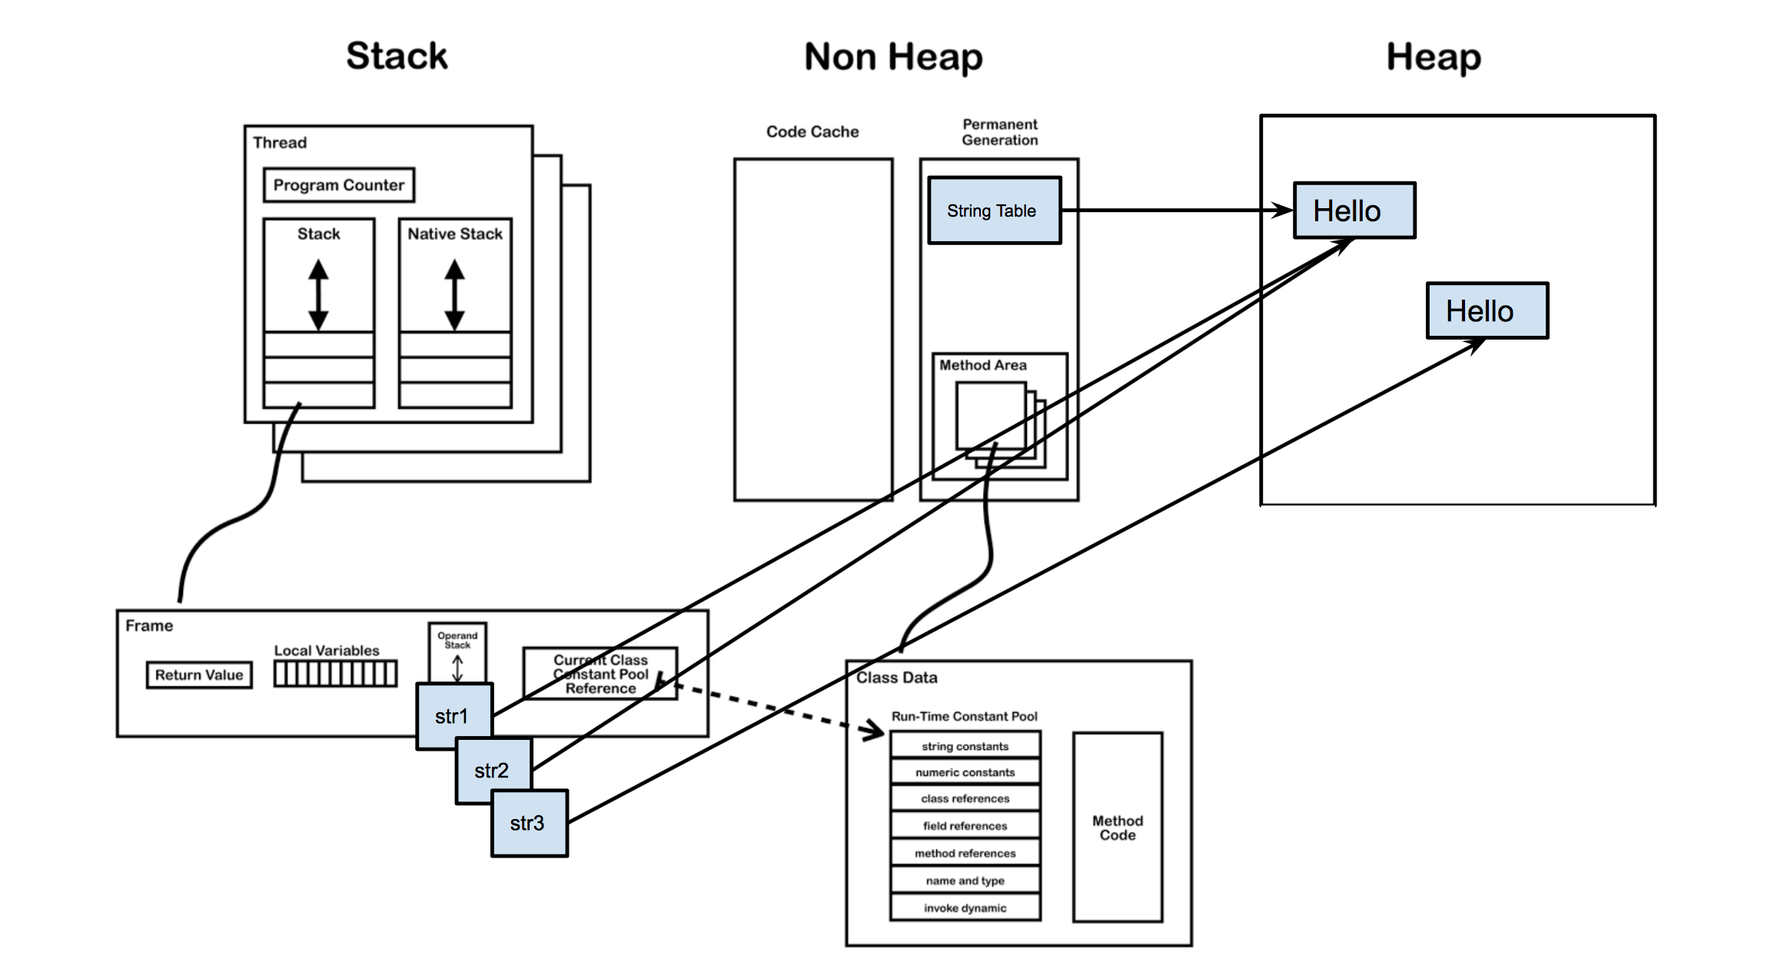
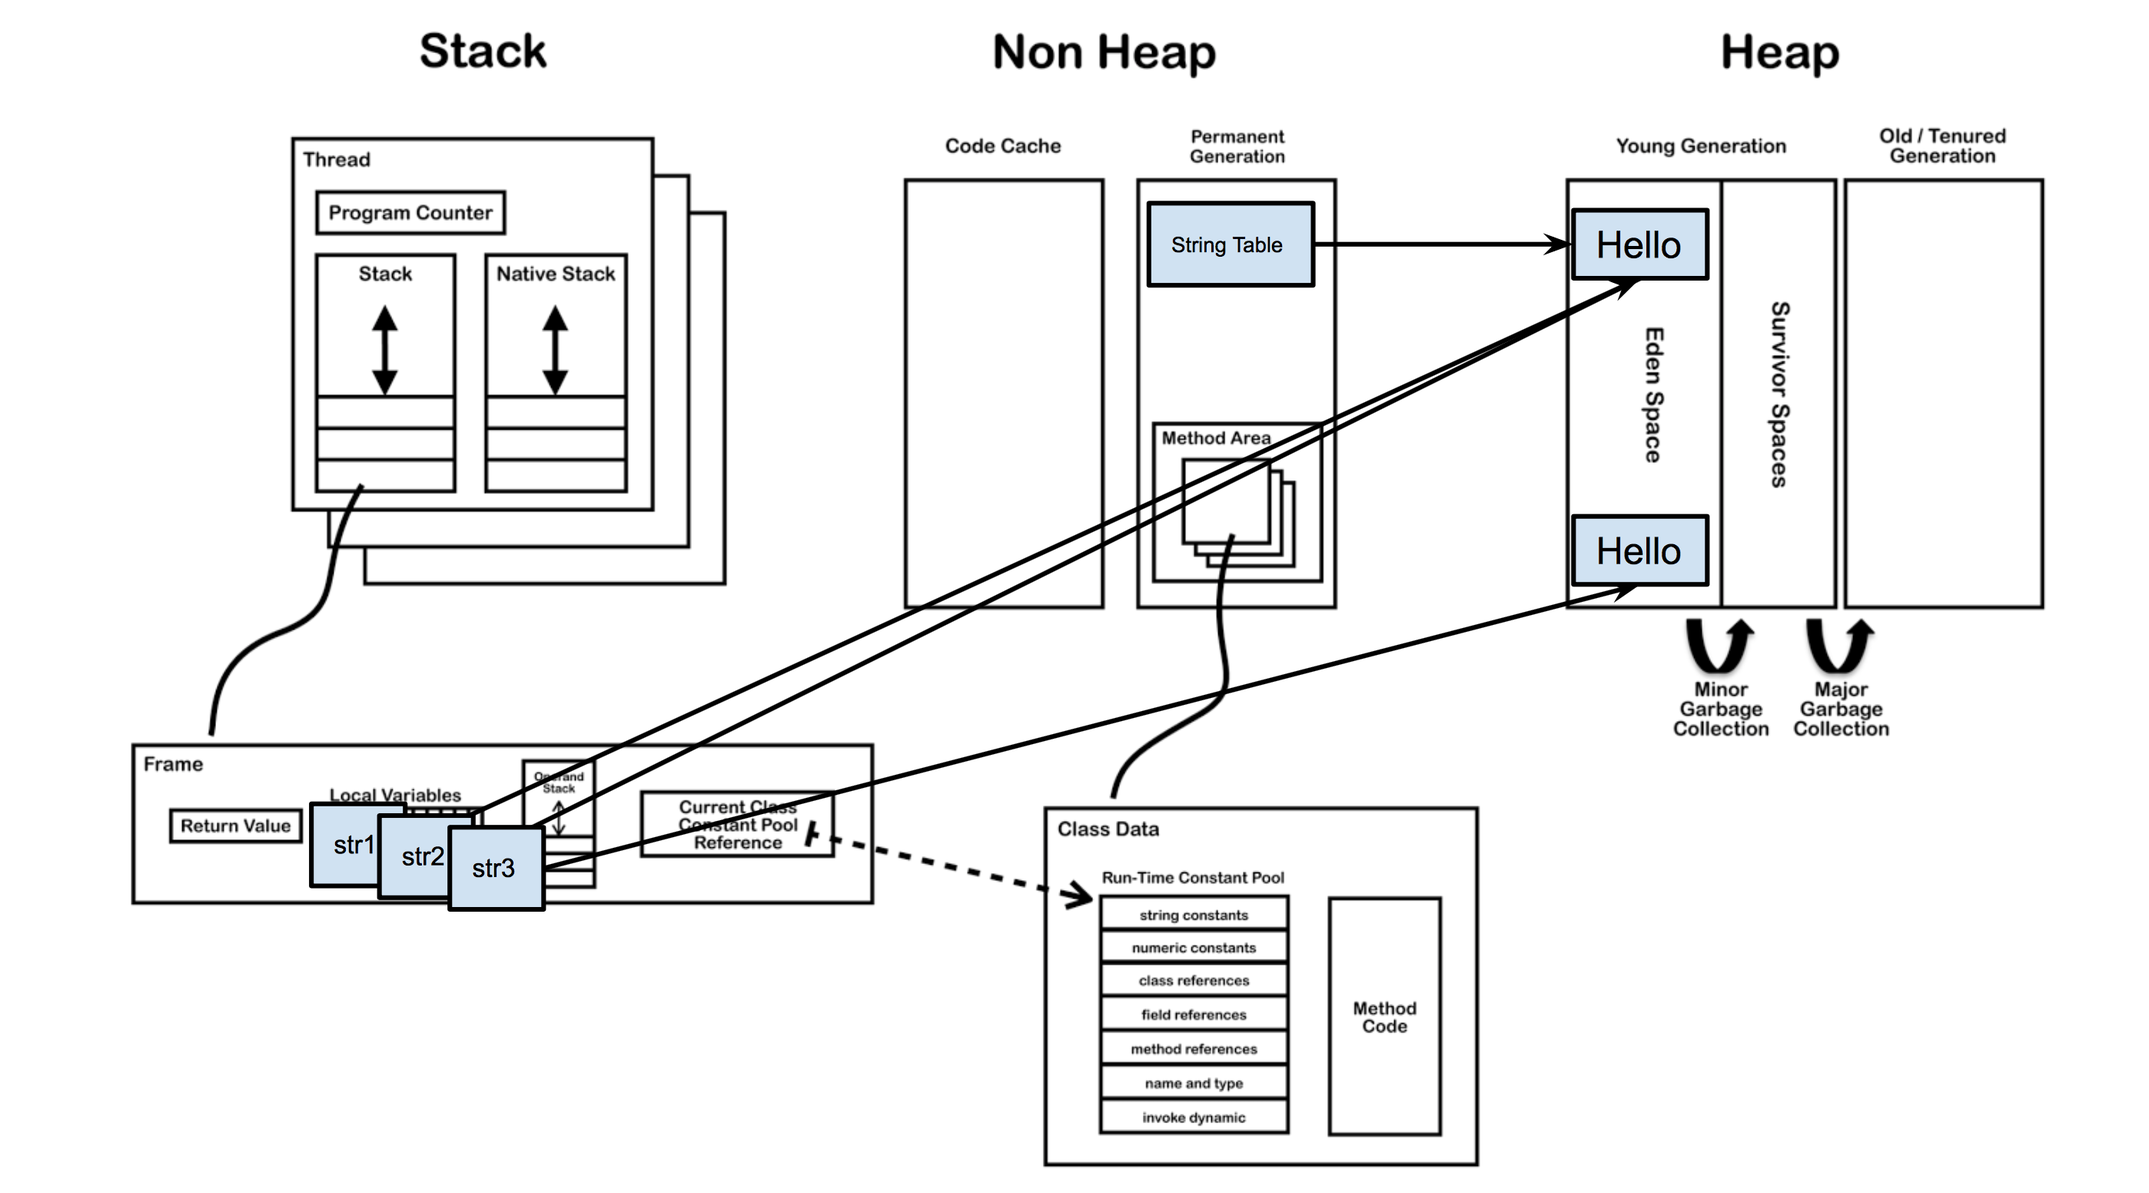
Hexo update!

Changed region(s): [[0.0624, 0.0311, 0.9671, 0.9936]]

diff --git a/2016/07/29/string/index.html b/2016/07/29/string/index.html
@@ -77,7 +77,8 @@
 <meta property="og:image" content="www.ciaoshen.com/uploads/tij4-13/memory3.png">
 <meta property="og:image" content="www.ciaoshen.com/uploads/tij4-13/memory4.png">
 <meta property="og:image" content="www.ciaoshen.com/uploads/tij4-13/memory5.png">
-<meta property="og:updated_time" content="2016-07-29T06:40:16.000Z">
+<meta property="og:image" content="www.ciaoshen.com/uploads/tij4-13/memory6.png">
+<meta property="og:updated_time" content="2016-07-30T04:15:32.000Z">
 <meta name="twitter:card" content="summary">
 <meta name="twitter:title" content="String str=new String("Hello")到底创建了几个对象？">
 <meta name="twitter:description" content="按世界在String上起舞，我们却不知道String到底在哪里。
@@ -362,15 +363,28 @@
 <p>上图中，首先Heap堆分成“新生代”，“老年代”，先不用管它，这是GC垃圾回收时候的事。重要的是Stack栈区里的“局部变量表（Local Variables）”和“操作数栈（Operand Stack）”。因为栈是线程私有的，每个方法被执行的时候都会创建一个“栈帧（Stack Frame）”。而每个栈帧里对应的都维护着一个局部变量表和操作数栈。我们老说基本型和对象引用存在栈里，其实就是存在局部变量表里。而操作数栈是线程实际的操作台。看下面这张图，做个加法100+98，局部变量表就是存数据的地方，一直不变，到加法做完再把和加进去。操作数栈就很忙了，先把两个数字压进去，再求和，算出来以后再弹出去。<br><img src="/uploads/tij4-13/localOperand.png" alt="localOperand"></p>
 <p>中间这个非堆（Non-Heap）可以粗略地理解为非堆里包含了永生代，而永生代里又包括了方法区。上面说了，每个类加载完之后，类的信息都存在方法区里。和String最相关的是里面的“运行时常量池（Run-time Constant Pool）”。它是每个类私有的。后面会说到，每个class文件里的“常量池”在类被加载器加载之后，就映射存放在这个地方。另外一个是“字符串常量池（String Pool）”。和运行时常量池不是一个概念。字符串常量池是全局共享的。位置就在第二张图里Interned String的位置，可以理解为在永生代里，方法区外面。后面会讲到，String.intern()方法，字符串驻留之后，引用就放在这个String Pool。</p>
 <h3 id="String-str-“Hello”"><a href="#String-str-“Hello”" class="headerlink" title="String str = “Hello”;"></a>String str = “Hello”;</h3><p>心里有个内存的印象之后就可以开始说String了。</p>
-<p>声明String肯定都是在一个类文件里。比如下面这个Test.java文件<br><figure class="highlight java"><table><tr><td class="gutter"><pre><span class="line">1</span><br><span class="line">2</span><br><span class="line">3</span><br><span class="line">4</span><br><span class="line">5</span><br><span class="line">6</span><br><span class="line">7</span><br></pre></td><td class="code"><pre><span class="line"><span class="keyword">package</span> com.ciao.shen.java.string;</span><br><span class="line"></span><br><span class="line"><span class="class"><span class="keyword">class</span> <span class="title">Test</span></span>&#123;</span><br><span class="line">    <span class="function"><span class="keyword">public</span> <span class="keyword">void</span> <span class="title">sayHello</span><span class="params">()</span></span>&#123;</span><br><span class="line">        String str = <span class="string">"Hello"</span>;</span><br><span class="line">    &#125;</span><br><span class="line">&#125;</span><br></pre></td></tr></table></figure></p>
+<p>比如下面这个Test.java文件。在主线程方法main里声明了一个字面量是”Hello”的字符串str。<br><figure class="highlight java"><table><tr><td class="gutter"><pre><span class="line">1</span><br><span class="line">2</span><br><span class="line">3</span><br><span class="line">4</span><br><span class="line">5</span><br><span class="line">6</span><br><span class="line">7</span><br><span class="line">8</span><br><span class="line">9</span><br><span class="line">10</span><br></pre></td><td class="code"><pre><span class="line"><span class="keyword">package</span> com.ciao.shen.java.string;</span><br><span class="line"></span><br><span class="line"><span class="class"><span class="keyword">class</span> <span class="title">Test</span></span>&#123;</span><br><span class="line">    <span class="function"><span class="keyword">public</span> <span class="keyword">void</span> <span class="title">f</span><span class="params">(String s)</span></span>&#123;...&#125;;</span><br><span class="line"></span><br><span class="line">    <span class="function"><span class="keyword">public</span> <span class="keyword">static</span> <span class="keyword">void</span> <span class="title">main</span><span class="params">(String[] args)</span></span>&#123;</span><br><span class="line">        String str = <span class="string">"Hello"</span>;</span><br><span class="line">        ...</span><br><span class="line">    &#125;</span><br><span class="line">&#125;</span><br></pre></td></tr></table></figure></p>
 <p>编译成Test.class文件之后，如下图，除了版本、字段、方法、接口等描述信息外，还有一个也叫“常量池（Constant Pool Table）”的东西（淡绿色区块）。但这个常量池和内存里的常量池不是一个东西。class文件里的常量池主要存两个东西：“字面量（Literal）”和“符号引用量(Symbolic References)”。其中字面量就包括类中定义的一些常量，因为String是不可变的，由final关键字修饰过了，所以代码里的“Hello”字符串，就是作为字面量（常量）写在class的常量池里。<br><img src="/uploads/tij4-13/memory2.png" alt="memory2"></p>
-<p>运行程序用到Test类的时候，Test.class文件的信息就会被解析到内存的方法区里。class文件里常量池里大部分数据会被加载到“运行时常量池”。但String不是。例子中的”Hello”的引用会被存到同样在Non Heap区的字符串常量池（String Pool）里。而“Hello”本体还是和所有对象一样，创建在Heap堆区。如下图所示，<br><img src="/uploads/tij4-13/memory3.png" alt="memory3"><br>注意这只是在Test类被类加载器加载时候的情形。主线程还并没有执行sayHello( )方法。Hello的实例已经被创建了。</p>
-<p>等到运行sayHello( )方法的时候，虚拟机就会到String Table里找，有没有能equals(“Hello”)的String。找到之后，就把这个引用压到操作数栈上去。</p>
-<p>如果我们当时定义了很多个值为”Hello”的String，也不会在堆上增加String实例。<br><figure class="highlight java"><table><tr><td class="gutter"><pre><span class="line">1</span><br><span class="line">2</span><br><span class="line">3</span><br></pre></td><td class="code"><pre><span class="line">String str1 = <span class="string">"Hello"</span>;</span><br><span class="line">String str2 = <span class="string">"Hello"</span>;</span><br><span class="line">String str3 = <span class="string">"Hello"</span>;</span><br></pre></td></tr></table></figure></p>
-<p>所以上面三个变量str1,str2,str3指向完全相同的一个heap地址。他们之间可以用==来连接。<br><img src="/uploads/tij4-13/memory4.png" alt="memory4"></p>
-<h3 id="String-str-new-String-“Hello”"><a href="#String-str-new-String-“Hello”" class="headerlink" title="String str = new String(“Hello”);"></a>String str = new String(“Hello”);</h3><p>但如果是用new关键字来创建字符串，情况就不一样了，<br><figure class="highlight java"><table><tr><td class="gutter"><pre><span class="line">1</span><br><span class="line">2</span><br><span class="line">3</span><br></pre></td><td class="code"><pre><span class="line">String str1 = <span class="string">"Hello"</span>;</span><br><span class="line">String str2 = <span class="string">"Hello"</span>;</span><br><span class="line">String str3 = <span class="keyword">new</span> String(<span class="string">"Hello"</span>);</span><br></pre></td></tr></table></figure></p>
-<p>这时候，new关键字会在Heap堆申请一块全新的内存，来创建新对象。虽然字面还是”Hello”，但是完全不同的对象，有不同的内存地址。<br><img src="/uploads/tij4-13/memory5.png" alt="memory5"></p>
-<h3 id="参考文献"><a href="#参考文献" class="headerlink" title="参考文献"></a>参考文献</h3><p>以下三篇，本人均亲自试吃，可放心食用。<br><a href="http://rednaxelafx.iteye.com/blog/774673#comments" target="_blank" rel="external">《请别再拿“String s = new String(“xyz”);创建了多少个String实例”来面试了吧 - By R神-@RednaxelaFX》</a><br><a href="http://blog.jamesdbloom.com/JVMInternals.html#constant_pool" target="_blank" rel="external">《JVM Internals - By James D Bloom》</a><br><a href="http://www.javaranch.com/journal/200409/ScjpTipLine-StringsLiterally.html" target="_blank" rel="external">《The SCJP Tip Line - By Corey McGlone》</a></p>
+<p>运行程序用到Test类的时候，Test.class文件的信息就会被解析到内存的方法区里。class文件里常量池里大部分数据会被加载到“运行时常量池”。但String不是。例子中的”Hello”的一个引用会被存到同样在Non Heap区的字符串常量池（String Pool）里。而“Hello”本体还是和所有对象一样，创建在Heap堆区。R大的文章里，测试的结果是在新生代的Eden区。但因为一直有一个引用驻留在字符串常量池，所以不会被GC清理掉。这个Hello对象会生存到整个线程结束。如下图所示，字符串常量池的具体位置是在过去说的永生代里，方法区的外面。<br><img src="/uploads/tij4-13/memory3.png" alt="memory3"></p>
+<blockquote>
+<p><strong>！注意</strong>：这只是在Test类被类加载器加载时候的情形。主线程中的str变量这时候都还没有被创建，但Hello的实例已经在Heap里了，对它的引用也已经在字符串常量池里了。</p>
+</blockquote>
+<p>等主线程开始创建str变量的时候，虚拟机就会到字符串常量池里找，看有没有能equals(“Hello”)的String。如果找到了，就在栈区当前栈帧的局部变量表里创建str变量，然后把字符串常量池里对Hello对象的引用复制给str变量。找不到的话，才会在heap堆重新创建一个对象，然后把引用驻留到字符串常量区。然后再把引用复制栈帧的局部变量表。<br><img src="/uploads/tij4-13/memory4.png" alt="memory4"></p>
+<h3 id="String-str-new-String-“Hello”"><a href="#String-str-new-String-“Hello”" class="headerlink" title="String str = new String(“Hello”)"></a>String str = new String(“Hello”)</h3><p>如果我们当时定义了很多个值为”Hello”的String，比如像下面代码，有三个变量str1,str2,str3，也不会在堆上增加String实例。局部变量表里三个变量统一指向同一个堆内存地址。<br><figure class="highlight java"><table><tr><td class="gutter"><pre><span class="line">1</span><br><span class="line">2</span><br><span class="line">3</span><br><span class="line">4</span><br><span class="line">5</span><br><span class="line">6</span><br><span class="line">7</span><br><span class="line">8</span><br><span class="line">9</span><br><span class="line">10</span><br><span class="line">11</span><br><span class="line">12</span><br></pre></td><td class="code"><pre><span class="line"><span class="keyword">package</span> com.ciao.shen.java.string;</span><br><span class="line"></span><br><span class="line"><span class="class"><span class="keyword">class</span> <span class="title">Test</span></span>&#123;</span><br><span class="line">    <span class="function"><span class="keyword">public</span> <span class="keyword">void</span> <span class="title">f</span><span class="params">(String s)</span></span>&#123;...&#125;;</span><br><span class="line"></span><br><span class="line">    <span class="function"><span class="keyword">public</span> <span class="keyword">static</span> <span class="keyword">void</span> <span class="title">main</span><span class="params">(String[] args)</span></span>&#123;</span><br><span class="line">        String str1 = <span class="string">"Hello"</span>;</span><br><span class="line">        String str2 = <span class="string">"Hello"</span>;</span><br><span class="line">        String str3 = <span class="string">"Hello"</span>;</span><br><span class="line">        ...</span><br><span class="line">    &#125;</span><br><span class="line">&#125;</span><br></pre></td></tr></table></figure></p>
+<p>这时候，str1和str2还是和之前一样。但str3因为new关键字会在Heap堆申请一块全新的内存，来创建新对象。虽然字面还是”Hello”，但是完全不同的对象，有不同的内存地址。<br><img src="/uploads/tij4-13/memory5.png" alt="memory5"><br>当然String#intern()方法让我们能手动检查字符串常量池，把有新字面值的字符串地址驻留到常量池里。</p>
+<h3 id="更复杂一点的情况"><a href="#更复杂一点的情况" class="headerlink" title="更复杂一点的情况"></a>更复杂一点的情况</h3><p>但上面的例子仅限于非常简单的情况，稍微复杂一点，比如下面这段代码，结果就不一样了。<br><figure class="highlight java"><table><tr><td class="gutter"><pre><span class="line">1</span><br><span class="line">2</span><br><span class="line">3</span><br><span class="line">4</span><br><span class="line">5</span><br><span class="line">6</span><br><span class="line">7</span><br><span class="line">8</span><br><span class="line">9</span><br><span class="line">10</span><br><span class="line">11</span><br><span class="line">12</span><br><span class="line">13</span><br><span class="line">14</span><br><span class="line">15</span><br></pre></td><td class="code"><pre><span class="line"><span class="class"><span class="keyword">class</span> <span class="title">Test</span> </span>&#123;</span><br><span class="line">	<span class="keyword">private</span> <span class="keyword">static</span> String staticStr=<span class="string">"Hello"</span>;</span><br><span class="line">	<span class="keyword">private</span> String memberStr=<span class="string">"Hello"</span>;</span><br><span class="line"></span><br><span class="line">	<span class="function"><span class="keyword">public</span> <span class="keyword">void</span> <span class="title">sayHello</span><span class="params">()</span></span>&#123;</span><br><span class="line">		String methodStr=<span class="string">"Hello"</span>;</span><br><span class="line">		System.out.println(methodStr);</span><br><span class="line">	&#125;</span><br><span class="line"></span><br><span class="line">	<span class="function"><span class="keyword">public</span> <span class="keyword">static</span> <span class="keyword">void</span> <span class="title">main</span> <span class="params">(String[] args)</span> </span>&#123;</span><br><span class="line">		Test t=<span class="keyword">new</span> Test();</span><br><span class="line">		t.sayHello();</span><br><span class="line">		String threadStr=<span class="string">"Hello"</span>;</span><br><span class="line">	&#125;</span><br><span class="line">&#125;</span><br></pre></td></tr></table></figure></p>
+<p>代码中，staticStr是Test类的静态成员变量，memberStr是普通成员变量。methodStr是sayHello方法的局部变量。在主线程方法main里，还有一个threadStr。<br><img src="/uploads/tij4-13/memory6.png" alt="memory6"><br>如上图所示，四个变量都指向堆区新生代里的同一个对象实例“Hello”。但程序运行过程里，内存里实际存在过6个对这个对象的引用。具体如下，</p>
+<ol>
+<li>首先方法区外面的字符串常量池有一个长期驻留引用。</li>
+<li>第二，静态变量staticStr，理论上可以认为存在方法区的运行时常量池里。但就像您文章里测出来实际是在堆里，是因为不同JVM具体操作不同。</li>
+<li>第三，memberStr是作为Test类的成员变量，存在堆里。</li>
+<li>第四，methodStr变量存在栈区sayHello()方法的私有栈帧里的局部变量表。</li>
+<li>第五，我们用System.out打印变量methodStr的时候，会有一个新的对“Hello”的引用被压到操作数栈里。但很快操作完就又弹出去了。</li>
+<li>sayHello()函数运行完methodStr变量对“Hello”对象的引用就被释放。</li>
+<li>第六个，主线程main里的threadStr变量也存在一个栈帧的局部变量表里。</li>
+<li>最后程序运行完，除了字符串常量池里的驻留引用还继续生存，其他引用全部被释放。</li>
+</ol>
+<h3 id="参考文献"><a href="#参考文献" class="headerlink" title="参考文献"></a>参考文献</h3><p>以下四篇，本人均亲自试吃，可放心食用。<br><a href="http://rednaxelafx.iteye.com/blog/774673#comments" target="_blank" rel="external">《请别再拿“String s = new String(“xyz”);创建了多少个String实例”来面试了吧 - By R神-@RednaxelaFX》</a><br><a href="http://rednaxelafx.iteye.com/blog/1847971" target="_blank" rel="external">《借HSDB来探索HotSpot VM的运行时数据 - By R神-@RednaxelaFX》</a><br><a href="http://blog.jamesdbloom.com/JVMInternals.html#constant_pool" target="_blank" rel="external">《JVM Internals - By James D Bloom》</a><br><a href="http://www.javaranch.com/journal/200409/ScjpTipLine-StringsLiterally.html" target="_blank" rel="external">《The SCJP Tip Line - By Corey McGlone》</a></p>
 
       
     </div>
@@ -550,7 +564,7 @@
               
             
             
-              <div class="post-toc-content"><ol class="nav"><li class="nav-item nav-level-3"><a class="nav-link" href="#按"><span class="nav-number">1.</span> <span class="nav-text">按</span></a></li><li class="nav-item nav-level-3"><a class="nav-link" href="#问题"><span class="nav-number">2.</span> <span class="nav-text">问题</span></a></li><li class="nav-item nav-level-3"><a class="nav-link" href="#JVM内存"><span class="nav-number">3.</span> <span class="nav-text">JVM内存</span></a></li><li class="nav-item nav-level-3"><a class="nav-link" href="#String-str-“Hello”"><span class="nav-number">4.</span> <span class="nav-text">String str = “Hello”;</span></a></li><li class="nav-item nav-level-3"><a class="nav-link" href="#String-str-new-String-“Hello”"><span class="nav-number">5.</span> <span class="nav-text">String str = new String(“Hello”);</span></a></li><li class="nav-item nav-level-3"><a class="nav-link" href="#参考文献"><span class="nav-number">6.</span> <span class="nav-text">参考文献</span></a></li></ol></div>
+              <div class="post-toc-content"><ol class="nav"><li class="nav-item nav-level-3"><a class="nav-link" href="#按"><span class="nav-number">1.</span> <span class="nav-text">按</span></a></li><li class="nav-item nav-level-3"><a class="nav-link" href="#问题"><span class="nav-number">2.</span> <span class="nav-text">问题</span></a></li><li class="nav-item nav-level-3"><a class="nav-link" href="#JVM内存"><span class="nav-number">3.</span> <span class="nav-text">JVM内存</span></a></li><li class="nav-item nav-level-3"><a class="nav-link" href="#String-str-“Hello”"><span class="nav-number">4.</span> <span class="nav-text">String str = “Hello”;</span></a></li><li class="nav-item nav-level-3"><a class="nav-link" href="#String-str-new-String-“Hello”"><span class="nav-number">5.</span> <span class="nav-text">String str = new String(“Hello”)</span></a></li><li class="nav-item nav-level-3"><a class="nav-link" href="#更复杂一点的情况"><span class="nav-number">6.</span> <span class="nav-text">更复杂一点的情况</span></a></li><li class="nav-item nav-level-3"><a class="nav-link" href="#参考文献"><span class="nav-number">7.</span> <span class="nav-text">参考文献</span></a></li></ol></div>
             
           </div>
           <div class="post-toc-indicator-bottom post-toc-indicator">

diff --git a/css/main.css b/css/main.css
@@ -1523,7 +1523,7 @@ pre .javascript .function {
   width: 4px;
   height: 4px;
   border-radius: 50%;
-  background: #f187ff;
+  background: #09d9ff;
 }
 .sidebar-nav {
   margin: 0 0 20px;
